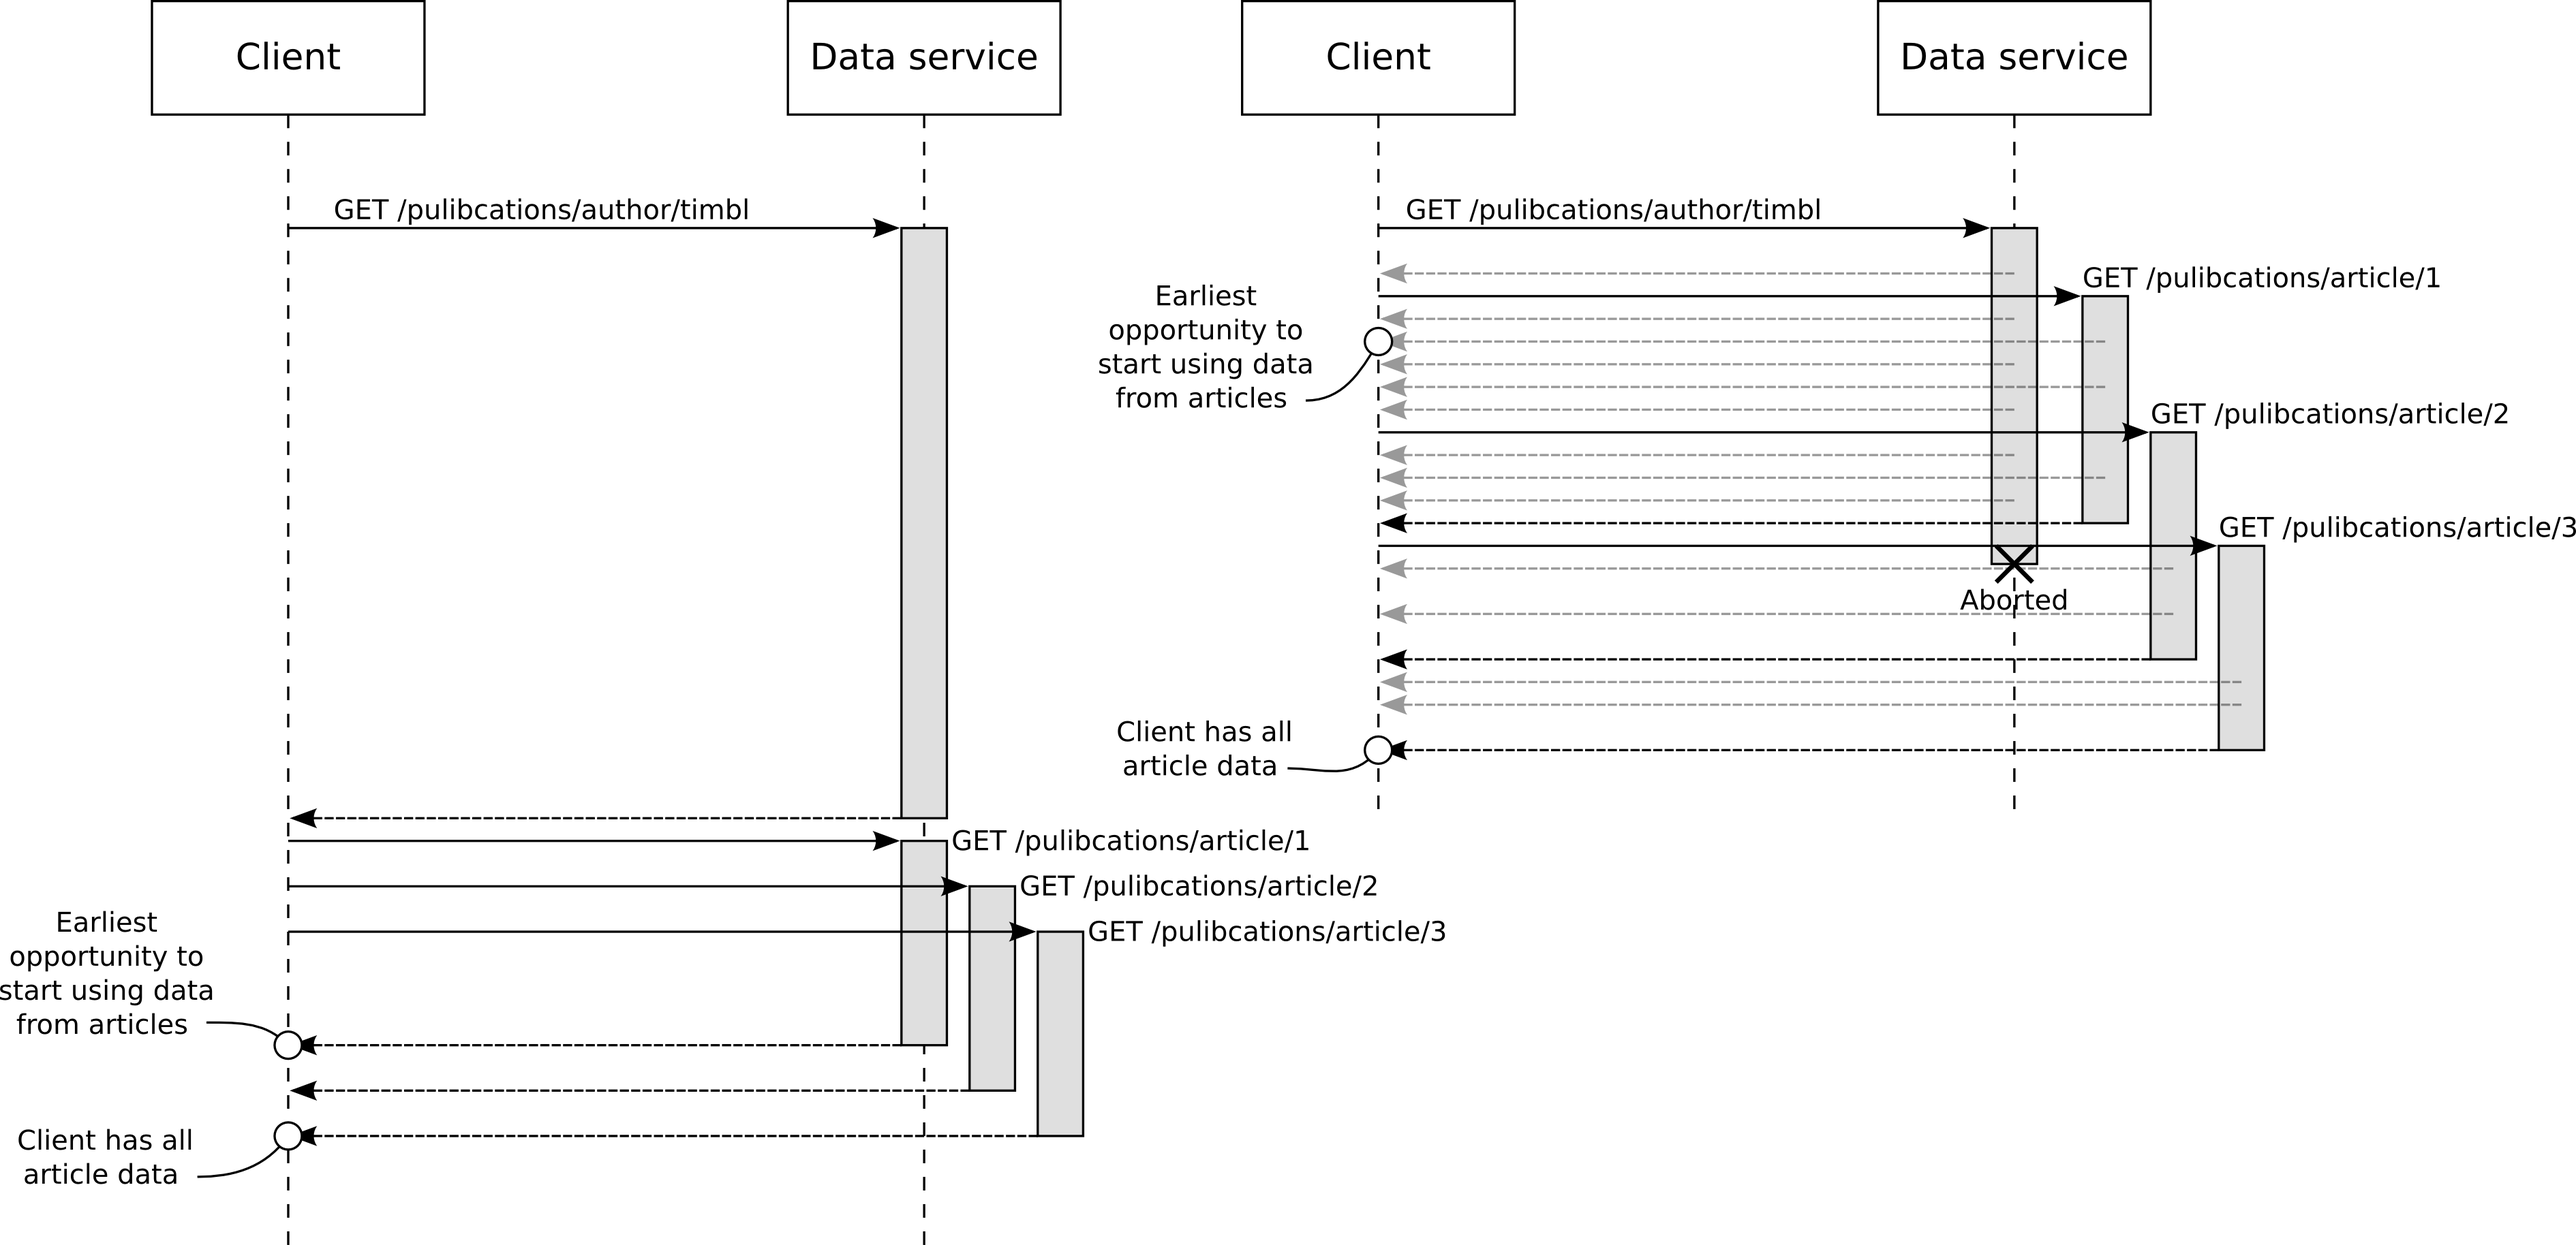
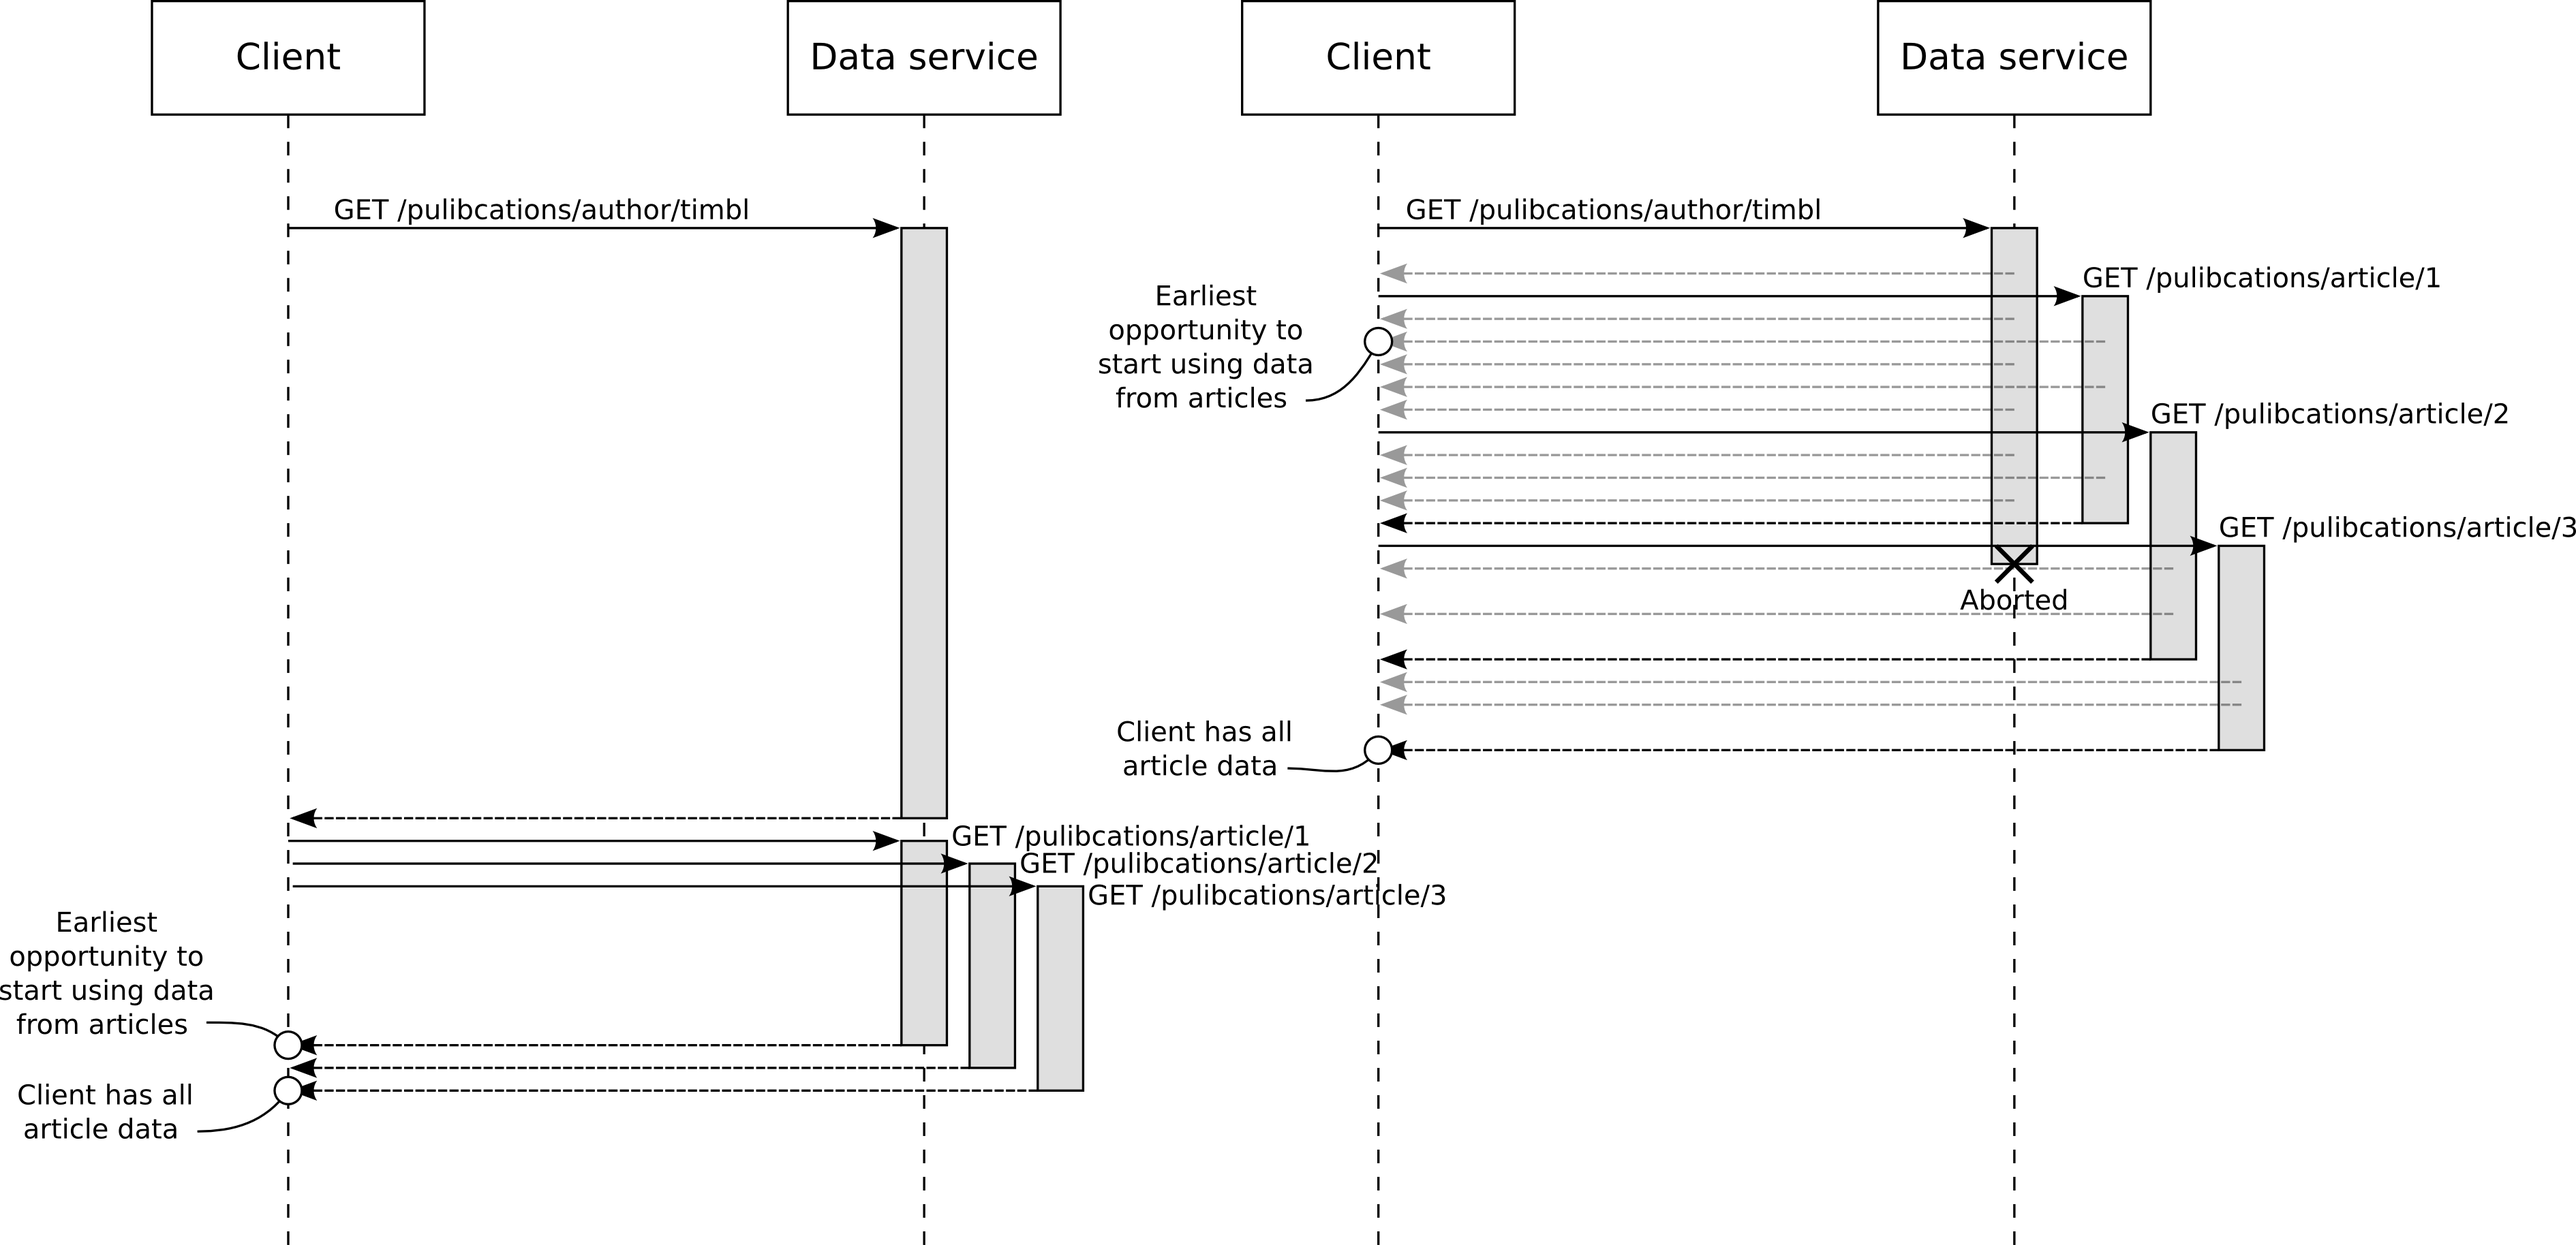
update diagram and caption linking to it

Changed region(s): [[0.3434, 0.6548, 0.5619, 0.7795], [0.0, 0.8419, 0.1249, 0.9666], [0.3746, 0.8419, 0.437, 0.9354]]

diff --git a/writing/main/2_Introduction.md b/writing/main/2_Introduction.md
@@ -19,15 +19,26 @@ Increasing the perception of speed:
 perceived as such since useful things can often be done before whole
 content is loaded.
 
-
 Multiple request rest aggregation
 ---------------------------------
 
-![Potential differences in overall time taken to download a list of
-publications and then download any ones newer than a certain date.
-Assuming the publications are ordered newest first, the first connection
-may be terminated as soon as an older publication is
-found.](images/rest_timeline.png)
+![Example use of a REST service; a client learns about an author's
+publications and then retrieves information on the first three. The
+process is much the same regardless of the aims of the client: it could
+be a user interface wanting to display the publications or an aggregator
+wishing to provide a higher-level REST service than the one it
+aggregates. The left sequence represents the most commonly used pattern
+in which the client does no inspection of the response until it is
+complete. The shaded arrows in the right sequence illustrate the concept of
+receiving a response as a sequence of small fragments whereas the darker 
+arrows on the left represent the concept of the response as a one-off
+event 
+\label{enhancingrest}](images/rest_timeline.png)
+
+Figure shows way of thinking about service, not differences in service itself
+
+As seen the \ref{enhancingrest} example, may be aborted once the data
+needed has been identified.
 
 Despite the enthusiasm for which SOA and REST in particular has been
 adapted, I believe this model isn't being used to its fullest potential.
@@ -66,7 +77,7 @@ Big-small problem
 
 Or, granularity problem
 
-Eg, infinite scrolling webpages.
+Perception. Eg, infinite scrolling webpages.
 
 Perception of speed
 -------------------
@@ -93,11 +104,11 @@ ability can be used to
 Agile methodologies, fast deployments and future versioning
 -----------------------------------------------------------
 
-SOA has been adapted widely but versioning remains a common challenge in
-industry.
+A subtler problem
 
-Anecdote: test environment finds an issue. One system can't be released.
-Contagion.
+SOA has been adapted widely but versioning remains a common challenge in
+industry. Anecdote: test environment finds an issue. One system can't be
+released. Contagion.
 
 How to cope with software that changes every week.
 
